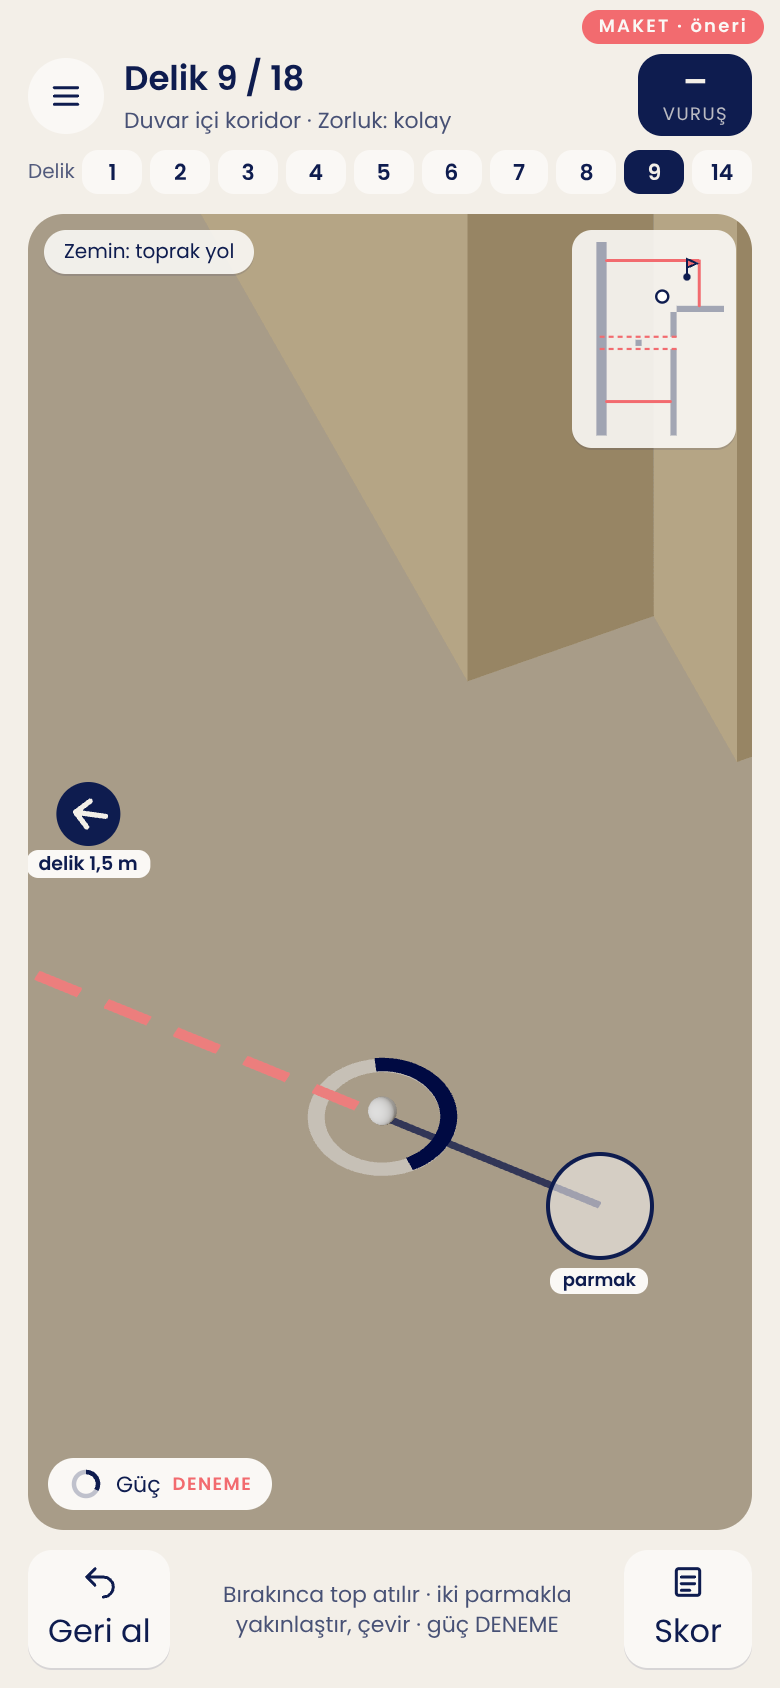
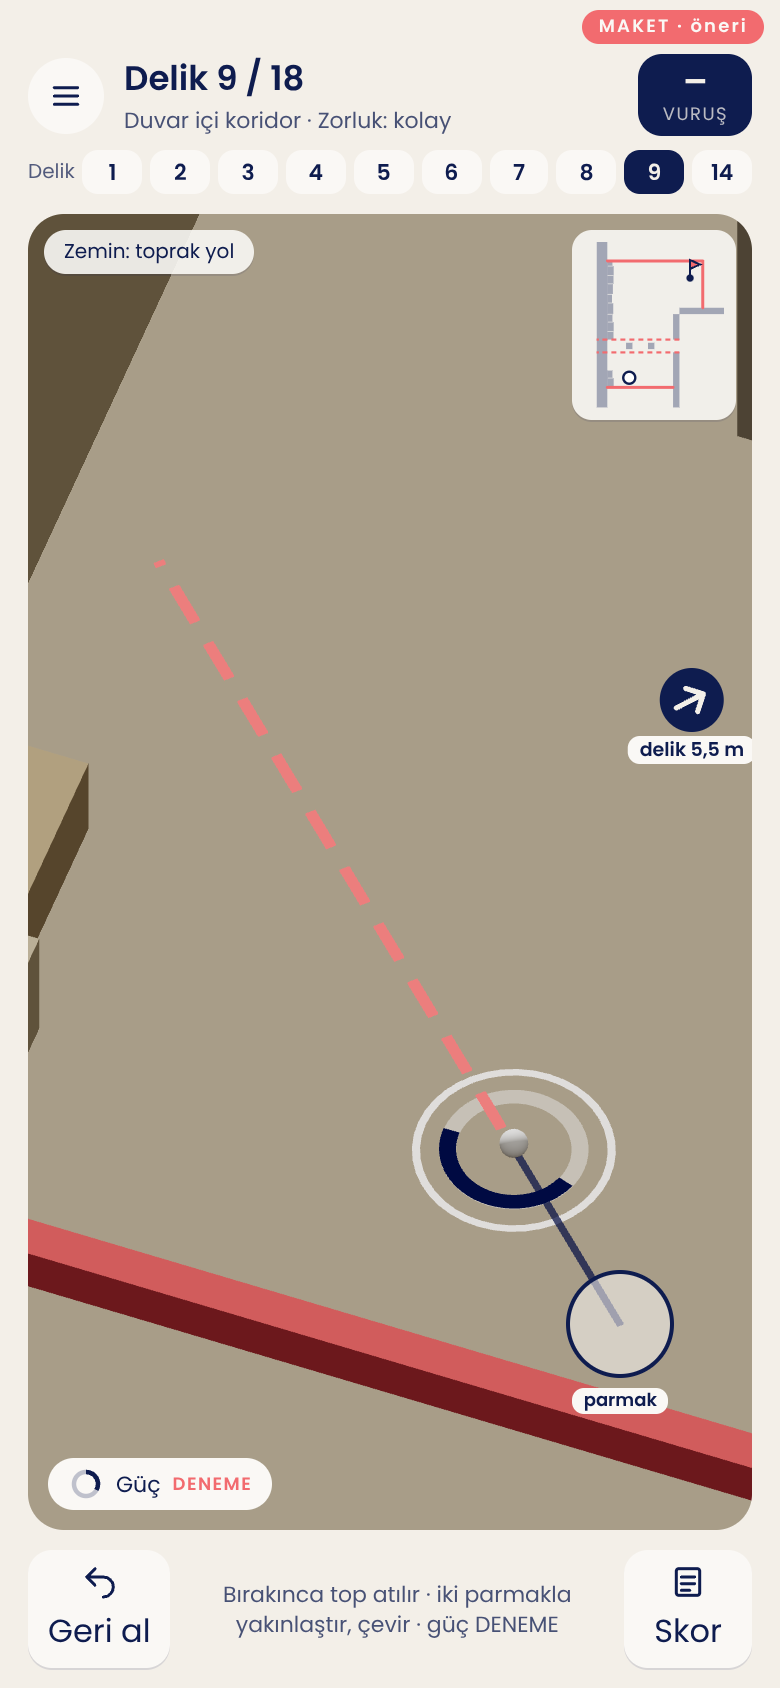
Ön eleme düzeltmesi: 9. delik dolu görünsün (başlangıç duvara ve ayağa yakın, duvar dibi taş sırası, iki ayak)
Taş sırası modelde ve künyede yok: DENEME, Kemal onaylamadı. Delik, atış ve şema görüntüleri, yerleşim ve plan yenilendi.

Claude-Session: https://claude.ai/code/session_01CqmBomUoj7kxT4HXbmEom1

diff --git a/src/maket/ornekDelikler.ts b/src/maket/ornekDelikler.ts
@@ -549,8 +549,9 @@ export const KOPRU_BOY = zArkaDis - zTasIc; // koridorun üstündeki açıklık:
 export const KOPRU_INIS = KOPRU.y0 - KOPRU.y1; // 0,12 m
 // Köprünün üstünde yükseklik (z'ye göre): arka duvarın içinde düz, koridorun üstünde iner, taş duvarın üstünde düz.
 export const kopruY = (z: number) => (z >= zArkaDis ? KOPRU.y0 : z <= zTasIc ? KOPRU.y1 : KOPRU.y0 - (KOPRU_INIS * (zArkaDis - z)) / KOPRU_BOY);
-// Köprünün koridorun ortasındaki ayağı (DENEME): 9. delikte düz yolu keser.
-export const KOPRU_AYAK: N2 = [kopruOrta, (zArkaDis + zTasIc) / 2];
+// Köprünün koridordaki iki ayağı (DENEME): açıklığın üçte birlerinde. 9. delikte taş duvar yanındaki ayak düz yolu keser.
+export const KOPRU_AYAKLAR: N2[] = [1, 2].map((i): N2 => [kopruOrta, zTasIc + (i * (zArkaDis - zTasIc)) / 3]);
+const KOPRU_AYAK = KOPRU_AYAKLAR[0];
 const olukOrta8 = siraArka(UST) + OLUK / 2;
 const bas8: N2 = [kopruOrta - DENEME.kopruOluk, olukOrta8];
 const cukur8: N2 = [kopruOrta, (zTasIc + zTasDis) / 2];
@@ -636,12 +637,30 @@ const zSek = zTasIc + TOP_YARICAP;
 const sek9: N2 = [bas9[0] + ((cukur9[0] - bas9[0]) * (bas9[1] - zSek)) / (bas9[1] - zSek + (cukur9[1] - zSek)), zSek];
 export const KORIDOR_EN = zArkaDis - zTasIc; // 3,1 m (model)
 const ay = DENEME.kopruAyak / 2;
-const c9 = { x0: 56.0, x1: 65.4, z0: -72.6, z1: -65.8 };
-// Atış anı: ikinci vuruş, top köşeyi dönmüş.
-const ara9: N2 = [kose9[0] + 0.45, zArkaDis - 0.4];
+// Taş duvarın dibindeki taş sırası (duvardan dökülmüş, dibe dizilmiş taşlar; modelde ve künyede yok: DENEME,
+// Kemal onaylamadı). Taşlar düzensiz: üstlerine gelen top düzgün sekmez. Sırada tek boşluk var; top duvardan
+// yalnız oradan temiz seker. Taşların eni, derinliği ve boyu sabit bir diziden (rastgele değil).
+const tasBosluk: [number, number] = [sek9[0] - DENEME.tasSirasiBosluk / 2, sek9[0] + DENEME.tasSirasiBosluk / 2];
+export const TAS_SIRASI = ((): { x0: number; x1: number; derinlik: number; boy: number; ton: number }[] => {
+  const enler = [0.42, 0.34, 0.5, 0.38, 0.46, 0.36];
+  const derinlikler = [1, 0.8, 0.93, 0.73, 0.87, 0.97];
+  const boylar = [0.22, 0.16, 0.26, 0.18, 0.24, 0.2];
+  const liste: { x0: number; x1: number; derinlik: number; boy: number; ton: number }[] = [];
+  let x = bas9[0] - DENEME.baslangicPayi;
+  for (let i = 0; x < cepX1 - 0.05; i++) {
+    const x1 = Math.min(x + enler[i % 6], cepX1);
+    // Boşluğa giren taş konmaz.
+    if (x1 <= tasBosluk[0] || x >= tasBosluk[1]) liste.push({ x0: x, x1, derinlik: DENEME.tasSirasiDerinlik * derinlikler[i % 6], boy: boylar[i % 6], ton: i % 4 });
+    x = x1 + 0.03;
+  }
+  return liste;
+})();
+const c9 = { x0: 57.6, x1: 65.4, z0: -72.6, z1: -66.0 };
+// Atış anı: ilk vuruş; nişan taş sırasındaki boşluğa, taş duvara.
+const ara9: N2 = bas9;
 const yon9 = ((): N2 => {
-  const dx = cukur9[0] - ara9[0];
-  const dz = cukur9[1] - ara9[1];
+  const dx = sek9[0] - ara9[0];
+  const dz = sek9[1] - ara9[1];
   const b = Math.hypot(dx, dz);
   return [dx / b, dz / b];
 })();
@@ -673,7 +692,8 @@ const koridor: OrnekDelik = {
     { tur: 'duvar', x0: KOPRU.x1, x1: MODEL.yanDuvarX0, z0: zArkaDis, z1: zArkaIc },
     { tur: 'duvar', x0: MODEL.yanDuvarX0, x1: MODEL.yanDuvarX1, z0: zArkaIc, z1: c9.z1 },
     { tur: 'tas', x0: c9.x0, x1: c9.x1, z0: zTasDis, z1: zTasIc },
-    { tur: 'ayak', x0: KOPRU_AYAK[0] - ay, x1: KOPRU_AYAK[0] + ay, z0: KOPRU_AYAK[1] - ay, z1: KOPRU_AYAK[1] + ay },
+    ...KOPRU_AYAKLAR.map((a) => ({ tur: 'ayak' as const, x0: a[0] - ay, x1: a[0] + ay, z0: a[1] - ay, z1: a[1] + ay })),
+    ...TAS_SIRASI.map((t) => ({ tur: 'tas' as const, x0: t.x0, x1: t.x1, z0: zTasIc, z1: zTasIc + t.derinlik })),
   ],
   // Köprü üstte: şemada iki kenarı kesik çizgiyle (top altından geçer).
   acikKenarlar: [
@@ -688,14 +708,16 @@ const koridor: OrnekDelik = {
     { a: [cepX1, zArkaDis], b: [cepX1, cepZ1], kaydir: -0.4, deger: DENEME.koridorCepDerinlik, kaynak: 'deneme' },
   ],
   etiketler: [
-    { n: [58.9, (zTasIc + zTasDis) / 2 + 0.07], metin: 'maket.sema.tasDuvarSektirme', hiza: 'orta' },
+    { n: [61.6, (zTasIc + zTasDis) / 2 + 0.07], metin: 'maket.sema.tasDuvar', hiza: 'orta' },
     { n: [58.3, (zArkaIc + zArkaDis) / 2 + 0.07], metin: 'maket.sema.arkaDuvar', hiza: 'orta' },
-    { n: [KOPRU_AYAK[0] - 0.4, KOPRU_AYAK[1] + 0.2], metin: 'maket.sema.kopruAyagi', hiza: 'orta' },
-    { n: [KOPRU.x1 + 0.13, -70.85], metin: 'maket.sema.kopruUstte', hiza: 'orta' },
+    { n: [KOPRU_AYAK[0] - 0.5, -69.5], metin: 'maket.sema.kopruAyagi', hiza: 'orta' },
+    { n: [sek9[0] - 0.25, zTasIc + 0.1], metin: 'maket.sema.tasBosluk', hiza: 'sol' },
+    { n: [62.6, zTasIc + 0.55], metin: 'maket.sema.tasSirasi', hiza: 'orta' },
+    { n: [KOPRU.x1 + 0.13, -69.3], metin: 'maket.sema.kopruUstte', hiza: 'orta' },
     { n: [kose9[0] - 0.25, zArkaDis + 0.75], metin: 'maket.sema.tribunKosesi', hiza: 'sag' },
     { n: [63.5, -70.2], metin: 'maket.sema.toprak', hiza: 'orta' },
   ],
-  // Atış anı: ikinci vuruş, top tribünün köşesini dönmüş; nişan cepteki deliğe
+  // Atış anı: ilk vuruş; nişan taş sırasındaki boşluktan taş duvara
   atis: { top: [ara9[0], 0, ara9[1]], yon: yon9, boy: 1.2 },
 };
 

diff --git a/src/maket/OrnekDelik.tsx b/src/maket/OrnekDelik.tsx
@@ -14,7 +14,8 @@ import {
   KOPRU,
   KOPRU_BOY,
   KOPRU_INIS,
-  KOPRU_AYAK,
+  KOPRU_AYAKLAR,
+  TAS_SIRASI,
   kopruY,
   BOS_KOLTUK,
   koltukX,
@@ -63,10 +64,10 @@ const BAKISLAR: Record<number, { genel: Bakis; atis: Bakis }> = {
     atis: { uzak: [-1.5, 17, 13.3], ileri: [0.05, 0, -0.6], zoom: 340, golge: 4 },
   },
   // 9: başlangıçta oyun yönü +x (koridor boyunca; köprünün ayağı ekrana girsin diye ileriye bakar);
-  // atış anında +z (tribünün köşesinin arkasındaki cebe).
+  // atış anı ilk vuruş: nişan taş sırasındaki boşluğa.
   9: {
-    genel: { uzak: [-12, 17, -4.45], ileri: [1.7, 0, 0.35], zoom: 200, golge: 7 },
-    atis: { uzak: [5.5, 17, -12.3], ileri: [-0.2, 0, 0.42], zoom: 340, golge: 4 },
+    genel: { uzak: [-12, 17, 4.45], ileri: [1.3, 0, -0.1], zoom: 200, golge: 7 },
+    atis: { uzak: [-12, 17, 4.45], ileri: [0.42, 0, -0.35], zoom: 340, golge: 4 },
   },
   3: {
     genel: { uzak: [5.5, 17, -12.3], ileri: [-0.52, 0, 1.15], zoom: 200, golge: 5 },
@@ -381,9 +382,25 @@ function BarajMankenleri() {
   );
 }
 
-// Köprü (8. delik; 9. delikte üstte ve ayağıyla). Modelde yok, kodla çizilir. Yeri karar (Kemal: açık
+// Taş duvarın dibindeki taş sırası (9. delik). Modelde ve künyede yok: DENEME, Kemal onaylamadı.
+// Renkler modeldeki duvar taşlarının renkleri.
+const TAS_TONLARI = ['#D6C7A8', '#C9B48F', '#BFA987', '#DDD0B4'];
+function TasSirasi() {
+  return (
+    <group>
+      {TAS_SIRASI.map((t, i) => (
+        <mesh key={i} position={[(t.x0 + t.x1) / 2, t.boy / 2, MODEL.tasDuvarIcZ + t.derinlik / 2]} castShadow receiveShadow>
+          <boxGeometry args={[t.x1 - t.x0, t.boy, t.derinlik]} />
+          <meshStandardMaterial color={TAS_TONLARI[t.ton]} roughness={1} />
+        </mesh>
+      ))}
+    </group>
+  );
+}
+
+// Köprü (8. delik; 9. delikte üstte ve ayaklarıyla). Modelde yok, kodla çizilir. Yeri karar (Kemal: açık
 // tribünün kulüp binası ucunda, tribünün arkasından taş duvara). Biçimi ve ölçüsü DENEME, Kemal onaylamadı:
-// düz beton döşeme, kenarsız ve korkuluksuz; ortasında tek ayak. Tribünün arka duvarında köprünün eninde
+// düz beton döşeme, kenarsız ve korkuluksuz; koridorda iki ayak. Tribünün arka duvarında köprünün eninde
 // bir geçit açılır (modelin duvarı orada kesilir, basamak düzeyine kadar olan altı kodla doldurulur).
 // Döşeme tribünden (2,52 m) taş duvarın üstüne (2,40 m) hafif iner; duvarın üstünde düz bir sahanlık olur.
 const KOPRU_KESIMI: Kesim = { x0: KOPRU.x0, x1: KOPRU.x1, z0: MODEL.arkaDuvarDisZ - 0.05, z1: MODEL.arkaDuvarIcZ, malzemeler: ['tas2'] };
@@ -395,7 +412,6 @@ function Kopru() {
   const tasKalin = MODEL.tasDuvarIcZ - MODEL.tasDuvarDisZ;
   const egik = Math.hypot(KOPRU_BOY, KOPRU_INIS);
   const aci = -Math.atan2(KOPRU_INIS, KOPRU_BOY);
-  const ayakBoy = kopruY(KOPRU_AYAK[1]) - k;
   const beton = '#C9C1B0';
   return (
     <group>
@@ -414,11 +430,16 @@ function Kopru() {
         <boxGeometry args={[en, 0.22, tasKalin]} />
         <meshStandardMaterial color={beton} roughness={1} />
       </mesh>
-      {/* Ayak: koridorun ortasında */}
-      <mesh position={[KOPRU_AYAK[0], ayakBoy / 2, KOPRU_AYAK[1]]} castShadow receiveShadow>
-        <boxGeometry args={[DENEME.kopruAyak, ayakBoy, DENEME.kopruAyak]} />
-        <meshStandardMaterial color="#B9B09D" roughness={1} />
-      </mesh>
+      {/* Ayaklar: koridorda, açıklığın üçte birlerinde */}
+      {KOPRU_AYAKLAR.map((a, i) => {
+        const ayakBoy = kopruY(a[1]) - k;
+        return (
+          <mesh key={i} position={[a[0], ayakBoy / 2, a[1]]} castShadow receiveShadow>
+            <boxGeometry args={[DENEME.kopruAyak, ayakBoy, DENEME.kopruAyak]} />
+            <meshStandardMaterial color="#B9B09D" roughness={1} />
+          </mesh>
+        );
+      })}
     </group>
   );
 }
@@ -498,6 +519,7 @@ export function OrnekSahne({ no, atis = false, parmakBildir, delikBildir }: Sahn
       {delik.vurguKenar && <VurguKenar a={delik.vurguKenar[0]} b={delik.vurguKenar[1]} y={delik.bordurler[0].y} />}
       {KOLTUK_BOLGELERI[delik.no] && <TribunKoltuklari bolge={KOLTUK_BOLGELERI[delik.no]} bos={delik.no === 7 ? BOS_KOLTUK : undefined} />}
       {(delik.no === 8 || delik.no === 9) && <Kopru />}
+      {delik.no === 9 && <TasSirasi />}
       {delik.no === 14 && <DusOdasi />}
       {delik.birikinti && <Birikinti n={delik.birikinti.n} r={delik.birikinti.r} />}
       {delik.bordurler.map((b, i) => (

diff --git a/src/maket/olculer.ts b/src/maket/olculer.ts
@@ -151,8 +151,10 @@ export const DENEME = {
   kopruKalinlik: 0.1,
   kopruSahanlikY: 2.4, // köprünün taş duvarın üstüne oturduğu yükseklik (duvar taşları modelde 2,2–2,5 m)
   kopruOluk: 3, // 8. delik: başlangıçtan köprünün ağzına, üst sıranın oluğunda
-  kopruAyak: 0.3, // köprünün koridorun ortasındaki ayağı (9. delikte engel)
-  koridorBaslangic: 2.4, // 9. delik: başlangıcın köprü ayağına uzaklığı
+  kopruAyak: 0.3, // köprünün koridordaki iki ayağı (açıklığın üçte birlerinde; 9. delikte engel)
+  koridorBaslangic: 1.5, // 9. delik: başlangıcın köprü ayağına uzaklığı
+  tasSirasiDerinlik: 0.3, // 9. delik: taş duvarın dibindeki taş sırası (duvardan ne kadar çıkar; en çok)
+  tasSirasiBosluk: 0.9, // taş sırasındaki boşluk: topun duvardan sekebildiği yer
   koridorCepBoy: 2.2, // 9. delik: tribünün köşesinden sonraki cebin boyu (x) ve derinliği (z)
   koridorCepDerinlik: 1.4,
   // Atış işaretleri (yerde): güç halkası ve nişan çizgisi

diff --git a/docs/tasarim-belgesi.md b/docs/tasarim-belgesi.md
@@ -546,7 +546,8 @@ bulunamayanlar DENEME: huninin tabanı (0,2) ve ucu, sulama başlığının çim
 aralığı (0,55) ve ayak tabanı (0,4). Penaltı noktasının çapı ve köşe bayrağı artık modelden. Adım 2'de eklenen
 DENEME değerleri: 6. delikte pistin tribün boyunca yeri ve iki kolun bölüşümü (2,25 + 4); 8. delikte köprünün
 biçimi, eni (0,6), kalınlığı, duvarın üstündeki sahanlığın yüksekliği (2,40; iniş 0,12), ayağı (0,3) ve oluktaki
-yol (3); 9. delikte başlangıcın ayağa uzaklığı (2,4) ve cebin ölçüsü (2,2 × 1,4).
+yol (3); 9. delikte başlangıcın ayağa uzaklığı (1,5), cebin ölçüsü (2,2 × 1,4), köprünün ikinci ayağı ve duvar
+dibindeki taş sırası (derinlik 0,3, boşluk 0,9).
 
 **Ortak dil:**
 - Pistin eni ve boyu gerçek minigolf pistinden: boy 6–13,4 m; en 1,25 m (sahada; 5. delik oval, 2,5 m), tribünde
@@ -662,7 +663,7 @@ bayrağı, köşe yayı ve penaltı noktası kaldırıldı; pistlerin ve delikle
 **Adım 2 (19 Kasım; öneri, Kemal görmedi): 6, 8, 9.** Yer açık tribünün önü, arkası ve üstü. Korkuluk,
 basamaklar, merdivenler, tribünün duvarları ve taş duvar modelde var; ölçüleri modelden. Hareketli engel yok.
 **Köprü modelde yok:** yeri karar (Kemal: açık tribünün kulüp binası ucunda, tribünün arkasından taş duvara);
-**biçimi, ölçüsü ve ayağı DENEME, Kemal onaylamadı.** Makette kodla çizildi; tribünün arka duvarında köprünün
+**biçimi, ölçüsü ve ayakları DENEME, Kemal onaylamadı.** Makette kodla çizildi; tribünün arka duvarında köprünün
 eninde bir geçit açıldı (model dosyası değişmedi). Tribünde 7. deliktekiyle aynı koltuklar.
 
 **6 · Açık tribünün önü** · zemin: çim ve toprak · zorluk: orta
@@ -696,15 +697,20 @@ eninde bir geçit açıldı (model dosyası değişmedi). Tribünde 7. delikteki
 
 **9 · Duvar içi koridor (nefes)** · zemin: toprak yol · zorluk: kolay
 - Yer: açık tribünün arkasındaki toprak koridor, B ucuna doğru; köprünün altı ve tribünün B ucundaki köşesi (modelde var).
-- Ölçü: pist koridorun kendisi, en 3,1 m (model); boy 6,85 m (DENEME). İki yanında kenar yok: bir yan tribünün
+- Ölçü: pist koridorun kendisi, en 3,1 m (model); boy 5,95 m (DENEME). İki yanında kenar yok: bir yan tribünün
   arka duvarı, öbür yan taş duvar. Kiremit kenar yalnız iki uçta ve köşenin arkasındaki cepte (2,2 × 1,4 m, DENEME).
-- Eşya: köprünün koridorun ortasındaki ayağı (0,3 m; DENEME), başlangıçtan 2,4 m ileride.
-- Bulmaca: ayak düz yolu keser. Delik tribünün köşesinin arkasındaki cepte, başlangıçtan görünmez (ok ve küçük
-  plan gösterir). Top taş duvardan bir kez sekip ayağın yanından geçer ve köşeyi döner. Koridor geniş: tutmazsa
-  iki rahat vuruşla da biter.
+- Eşya: köprünün koridordaki iki ayağı (0,3 m; açıklığın üçte birlerinde; DENEME); taş duvarın dibinde düzensiz
+  bir taş sırası (duvardan en çok 0,3 m çıkar; **modelde ve künyede yok: DENEME, Kemal onaylamadı**). Sırada
+  0,9 m'lik tek boşluk var.
+- Bulmaca: başlangıç taş duvara yakın; duvar yanındaki ayak 1,5 m ileride düz yolu keser. Delik tribünün
+  köşesinin arkasındaki cepte, başlangıçtan görünmez (ok ve küçük plan gösterir). Taş sırasına gelen top düzgün
+  sekmez; top duvardan yalnız sıradaki boşluktan temiz seker. Oradan sekip ayakla duvarın arasından geçer ve
+  köşeyi döner. Koridor geniş: tutmazsa iki ayağın arasından iki rahat vuruşla da biter.
 - Öğretir: yeni şey yok; sektirmenin rahat tekrarı, görünmeyen deliğe ok ve planla oynamak.
-- Deneme notu: taş duvar (taşlar tek tek) düzgün sektiriyor mu; delik görünmeyince ok ve plan yetiyor mu;
-  yüksek duvarlar topu kapatıyor mu (kamera çevrilebilir).
+- Deneme notu: taş duvar (taşlar tek tek) düzgün sektiriyor mu; taş sırası nefes deliği için fazla mı (fazlaysa
+  boşluk genişler); delik görünmeyince ok ve plan yetiyor mu; yüksek duvarlar topu kapatıyor mu (kamera çevrilebilir).
+- Kems'in ön elemesi (19 Kasım): ilk hâlinde delik ekranı düz toprak gibiydi; başlangıç duvara ve ayağa
+  yaklaştırıldı, taş sırası ve ikinci ayak eklendi.
 
 Üstten şemalar (ölçü çizgili) ve on deliğin stattaki yeri (ölçekli):
 
@@ -809,7 +815,8 @@ Kemal'in kararını bekleyenler.
   - (c) Delik çizgiden uzaklaşır (1,5–2 m): uç yine duvarsız, ama hata payı büyür.
 
   ![2. delik taç seçenekleri](plan/delik-2-tac-secenekleri.png)
-- **8. delik: köprünün biçimi** (DENEME): kenarsız ve korkuluksuz düz döşeme, en 0,6 m, ortada tek ayak. Yeri karar; biçim Kemal'in.
+- **8. delik: köprünün biçimi** (DENEME): kenarsız ve korkuluksuz düz döşeme, en 0,6 m, koridorda iki ayak. Yeri karar; biçim Kemal'in.
+- **9. delik: duvar dibindeki taş sırası** (DENEME): modelde ve künyede yok; kalsın mı, Kemal'in kararı.
 - ~~Huni, sulama başlığı, baraj mankeni kalsın mı?~~ Cevaplandı (Kemal, 19 Kasım): kalsın, gerçeğe yakın (4.8).
 - ~~3B model eksikleri (çim basamağı, orta yuvarlak, yaylar, noktalar, köşe bayrakları)~~ Düzeltildi (19 Kasım; model).
 - **Kalan 8 deliğin adım sırası** (4.9): öneri; Kemal değiştirebilir.
@@ -894,7 +901,7 @@ ekranına karışmaz. Görüntüler iPhone 13 boyutunda çekildi.
 4. **Atış ve nişan** (`?maket=atis&no=…`, aynı numaralar): kamera topa daha da yaklaşır; parmakla geri çekme
    göstergesi, kiremit kesik nişan çizgisi, topun çevresinde güç halkası. 2 ve 4'te atış ekranı ikinci
    vuruşun anıdır (top deliğin ya da dönüşün yakınında), yerin eşyası görünsün diye.
-   6, 8 ve 9'da da atış ekranı ikinci vuruşun anıdır (6: direklerin önü; 8: köprünün üstü; 9: köşenin arkası).
+   6 ve 8'de de atış ekranı ikinci vuruşun anıdır (6: direklerin önü; 8: köprünün üstü); 9'da ilk vuruş (nişan taş sırasındaki boşluğa).
    Ayrıca **üstten şema** (`?maket=sema&no=…`; `no=0` on deliğin stattaki yeri): ölçü çizgili.
 5. **Skor kartı** (`?maket=skor-karti`): 18 deliğin listesi (plandaki yerleriyle), vuruşlar "–", DENEME.
 6. **Tur sonu** (`?maket=tur-sonu`): toplam vuruş "–", ayın turu ilerlemesi (18 parça, boş), ayın pulu yer

diff --git a/docs/yol-haritasi.md b/docs/yol-haritasi.md
@@ -50,8 +50,8 @@
   birleşmiş PR'lardan. Kural: her yeni çizim aynı PR'la bu listeye girer. Oyunda değişiklik yok.
 - 19 Kasım 2026 (öneri; `ajans/delikler-adim-2`): adım 2. Açık tribünün çevresindeki üç delik yeni dille çizildi:
   6 (tribünün önü: çimden toprağa, korkuluğun altından, direklerin arasından merdivenin ayağına), 8 (üst sıranın
-  oluğundan köşeyle köprüye; kenarsız, hafif inen köprüden taş duvarın üstüne), 9 (nefes; koridorda köprü
-  ayağının yanından, taş duvardan sekip tribünün köşesinin arkasına). Maketler `?maket=delik|atis|sema&no=6|8|9`;
+  oluğundan köşeyle köprüye; kenarsız, hafif inen köprüden taş duvarın üstüne), 9 (nefes; koridorda duvar
+  dibindeki taş sırasının boşluğundan taş duvara, köprü ayağının yanından tribünün köşesinin arkasına; taş sırası DENEME). Maketler `?maket=delik|atis|sema&no=6|8|9`;
   yerleşim şeması ve delik planı on deliği gösterir, kalan 8 "yeniden çizilecek". Numara şeridi on deliğe göre
   düzenlendi. Köprünün yeri karar (Kemal); biçimi, ölçüsü ve ayağı DENEME. Oynanış yok; gerçek telefonda denenmedi.
 - 19 Kasım 2026 (aynı dal; Kemal): **stat modeli düzeltildi** (çim tek düzeyde, orta yuvarlak sürekli, yaylar,
